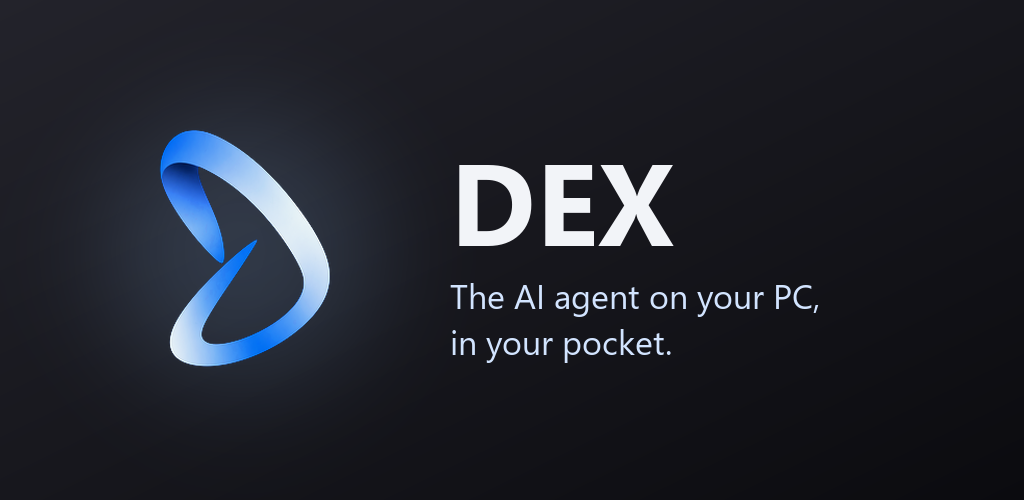
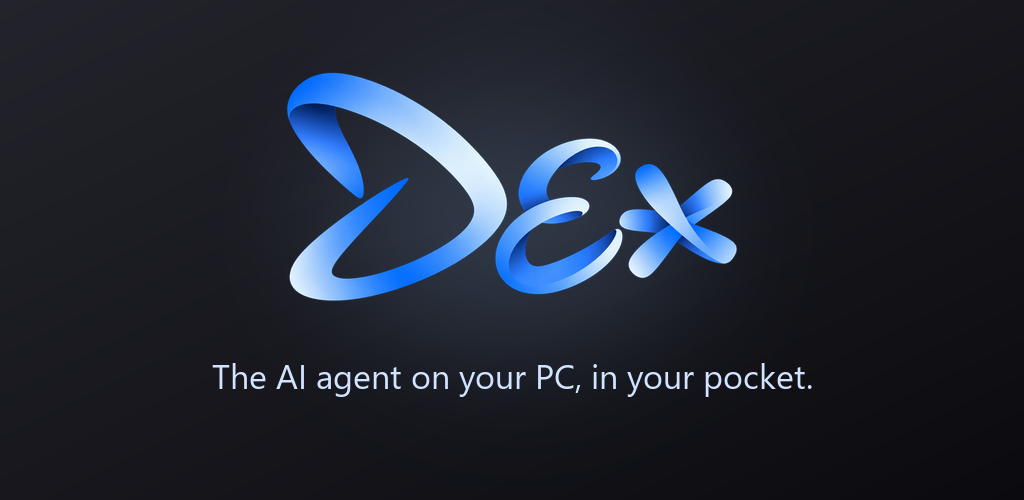
Play: the feature graphic shows the DEX wordmark
The owner asked for the wordmark instead of "DEX" set in Segoe UI. The
wordmark already starts with the ribbon D, so the separate mark is gone
and the wordmark sits large and centred, with the line under it.

Claude-Session: https://claude.ai/code/session_01QeWX31RHpVWLZ3x6bHd41v

Changed region(s): [[0.125, 0.12, 0.8125, 0.81]]

diff --git a/docs/play-store/README.md b/docs/play-store/README.md
@@ -90,7 +90,7 @@ Both are signed with the same release key (certificate SHA-256 `2f727fa5…`), f
 
 **Graphics:**
 - App icon: `icon-512.png` (512×512, from the launcher icon; Play rounds the corners).
-- Feature graphic: `feature-graphic-1024x500.png`.
+- Feature graphic: `feature-graphic-1024x500.png` (the DEX wordmark, centred, with "The AI agent on your PC, in your pocket.").
 - Phone screenshots: at least 2 and up to 8, taken on the phone (Power + Volume down). In order:
   1. Home with a few tasks;
   2. a task with result cards (flights or hotels);
